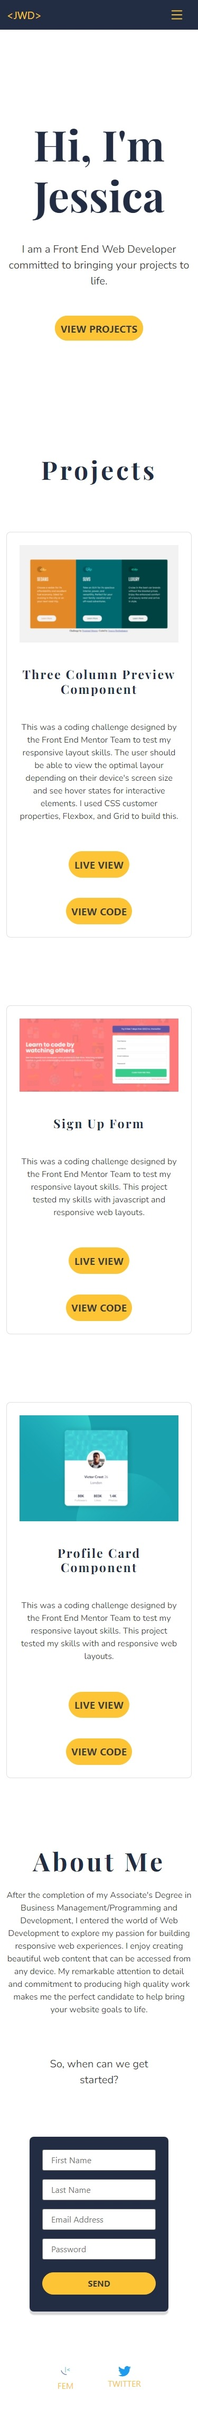
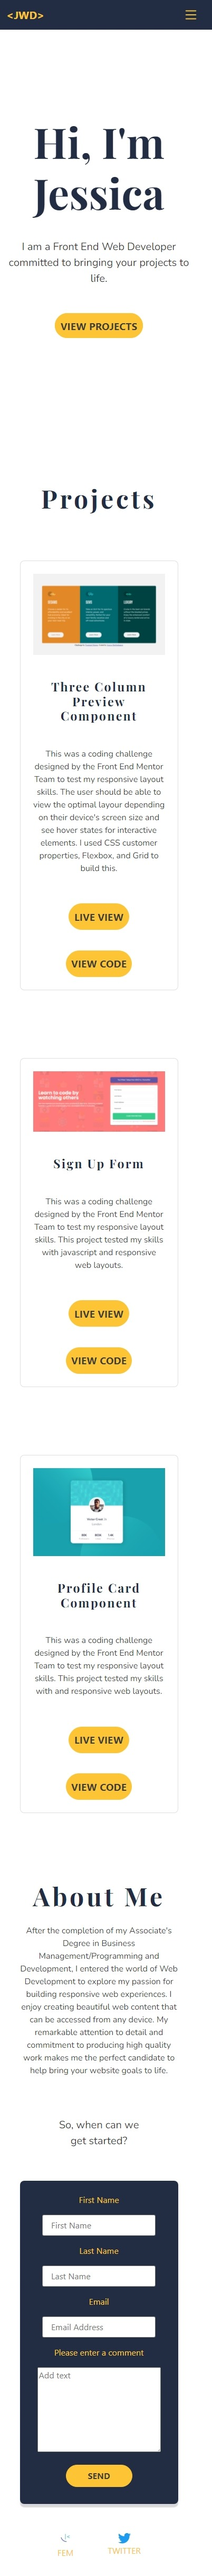
changed the contact form for a log in form. changed the width of the about me section and the project section to a maximun of 80% because the content was overflowing the body of the site. Added text labels to the contact form for accessibility reasons.

diff --git a/dist/css/main.css b/dist/css/main.css
@@ -1,9 +1,44 @@
+body {
+  background: #FFFFFF;
+  font-style: "Nunito", sans-serif;
+  font-weight: 400;
+  display: flex;
+  flex-direction: column;
+  justify-content: center;
+  align-items: center;
+  min-height: 100vh;
+}
+
+h1, h2, h3 {
+  font-family: "Playfair Display", serif;
+  color: #222d44;
+}
+
+p {
+  font-family: "Nunito", sans-serif;
+  color: #3D3D3D;
+  font-size: 1rem;
+}
+
+a {
+  text-decoration: none;
+  border-radius: 2em;
+  max-width: 8em;
+  text-align: center;
+  text-transform: uppercase;
+}
+
+li {
+  list-style: none;
+}
+
 nav.navbar {
   background: #222d44;
+  max-width: 100%;
 }
 nav.navbar .nav-link {
   color: #FDC435;
-  font-size: 1.4rem;
+  font-size: 1rem;
 }
 nav.navbar .nav-link:hover {
   border: 1px solid #FDC435;
@@ -15,6 +50,7 @@ ul.navbar {
 
 .navbar-brand {
   color: #FDC435;
+  font-weight: 700;
 }
 .navbar-brand:hover {
   color: #FDC435;
@@ -45,41 +81,13 @@ header P {
   margin-bottom: 3em;
 }
 
-a {
-  text-decoration: none;
-  border-radius: 2em;
-  max-width: 8em;
-  text-align: center;
-  text-transform: uppercase;
-}
-
-li {
-  list-style: none;
-}
-
-.view__projects, .view__live, .view__code {
-  border: 1px solid #FDC435;
-  background: #FDC435;
-  margin-top: 2em;
-  padding: 0.5em;
-  min-width: 35%;
-  font-style: "Nunito", sans-serif;
-  font-size: 1.2rem;
-  color: #3D3D3D;
-  font-weight: 700;
-}
-.view__projects:hover, .view__projects:focus, .view__live:hover, .view__live:focus, .view__code:hover, .view__code:focus {
-  background: transparent;
-  color: #3D3D3D;
-}
-
 .container__projects {
   text-align: center;
   display: flex;
   flex-direction: column;
   justify-content: center;
   align-items: center;
-  min-height: 100vh;
+  margin: 4em 2em;
 }
 
 .section__heading {
@@ -93,8 +101,8 @@ li {
   flex-direction: column-reverse;
   justify-content: space-between;
   border-radius: 0.5em;
-  max-width: 100%;
-  margin: 4em 0;
+  max-width: 80vw;
+  margin: 4em 1em;
   padding: 1.5em;
 }
 
@@ -113,6 +121,22 @@ li {
   letter-spacing: 0.1em;
 }
 
+.view__projects, .view__live, .view__code {
+  border: 1px solid #FDC435;
+  background: #FDC435;
+  margin-top: 2em;
+  padding: 0.5em;
+  min-width: 35%;
+  font-style: "Nunito", sans-serif;
+  font-size: 1.2rem;
+  color: #3D3D3D;
+  font-weight: 700;
+}
+.view__projects:hover, .view__projects:focus, .view__live:hover, .view__live:focus, .view__code:hover, .view__code:focus {
+  background: transparent;
+  color: #3D3D3D;
+}
+
 .view__code, .view__live {
   align-self: center;
   max-width: 100%;
@@ -125,7 +149,8 @@ li {
   flex-direction: column;
   justify-content: center;
   align-items: center;
-  margin-top: 4em;
+  margin: 1em 4em;
+  max-width: 80vw;
 }
 .about__me h2 {
   font-size: 3rem;
@@ -143,15 +168,21 @@ li {
   justify-content: center;
   align-items: center;
   background: #222d44;
-  margin: 2em 0;
-  margin-bottom: 4em;
-  max-width: 100%;
+  max-width: 80vw;
   border-radius: 0.5em;
   padding: 1.5em;
   box-shadow: 0em 0.4em 0.1em rgba(62, 60, 73, 0.2);
 }
+.form label {
+  color: #FDC435;
+}
+.form textarea {
+  margin: 1em;
+  max-height: 10em;
+  max-width: 100%;
+}
 .form .form__input {
-  margin-bottom: 1em;
+  margin: 1em;
   max-height: 2.5em;
   max-width: 100%;
   border-radius: 0.2em;
@@ -163,7 +194,7 @@ li {
 }
 .form .form__button {
   margin: 0.5em;
-  min-width: 100%;
+  min-width: 50%;
   background: #FDC435;
   color: #3D3D3D;
   font-weight: 700;
@@ -209,28 +240,6 @@ footer a {
   width: 2em;
   height: 2em;
   align-self: center;
-}
-
-body {
-  background: #FFFFFF;
-  font-style: "Nunito", sans-serif;
-  font-weight: 400;
-  display: flex;
-  flex-direction: column;
-  justify-content: center;
-  align-items: center;
-  min-height: 100vh;
-}
-
-h1, h2, h3 {
-  font-family: "Playfair Display", serif;
-  color: #222d44;
-}
-
-p {
-  font-family: "Nunito", sans-serif;
-  color: #3D3D3D;
-  font-size: 1rem;
 }
 
 /*# sourceMappingURL=main.css.map */

diff --git a/index.html b/index.html
@@ -19,7 +19,7 @@
 <body class = "container-fluid">
     <header>
       <nav class = "navbar navbar-expand-sm fixed-top">
-          <div class="container-fluid">
+          <div class="container">
               <a href="#" class="navbar-brand">&lt;JWD&gt;</a>
               <button class="navbar-toggler" type = "button" data-bs-toggle = "collapse" data-bs-target = "#dropdown" aria-controls = "#dropdown" aria-expanded = "false" aria-label = "Toggle navigation">
                   <span class="navbar-toggler-icon"><svg class = "hamburger" xmlns="http://www.w3.org/2000/svg" width="16" height="16" fill="currentColor" class="bi bi-list" viewBox="0 0 16 16">
@@ -114,17 +114,17 @@
 
 
             <form id = "contact" class="form" action="">
-                <label for="firstName" aria-label="first name"></label>
+                <label for="firstName" aria-label="first name">First Name</label>
                 <input class="form__input form__input--first" type="text" placeholder="First Name" aria-placeholder="First Name" id="firstName" name="firstname" required="">
       
-                <label for="lastName" aria-label="last name"></label>
+                <label for="lastName" aria-label="last name">Last Name</label>
                 <input class="form__input form__input--last" type="text" placeholder="Last Name" aria-placeholder="Last Name" id="lastName" name="lastname" required="">
       
-                <label for="email" aria-label="email"></label>
+                <label for="email" aria-label="email">Email</label>
                 <input class="form__input form__input--email" type="email" placeholder="Email Address" aria-placeholder="Email Address" id="email" name="email" required="">
       
-                <label for="password" aria-label="password"></label>
-                <input class="form__input form__input--password" type="password" placeholder="Password" aria-placeholder="Password" id="password" name="password" required="">
+                <label for="addComment" aria-label="add comment">Please enter a comment</label>
+                <textarea name="comment" form = "contact" id="addComment" cols="30" rows="10" placeholder = "Add text"></textarea>
       
                 <button class="form__button">Send</button>
       
